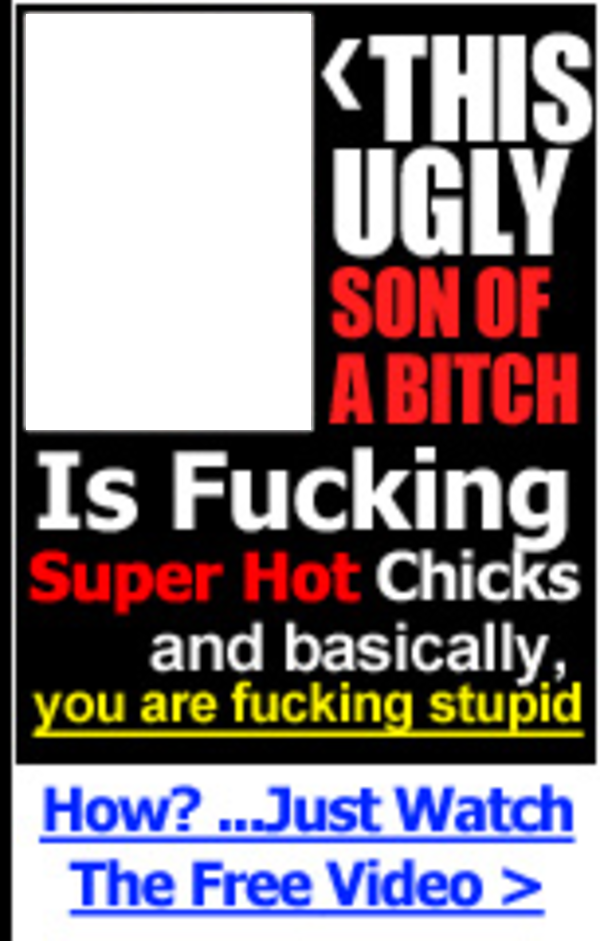
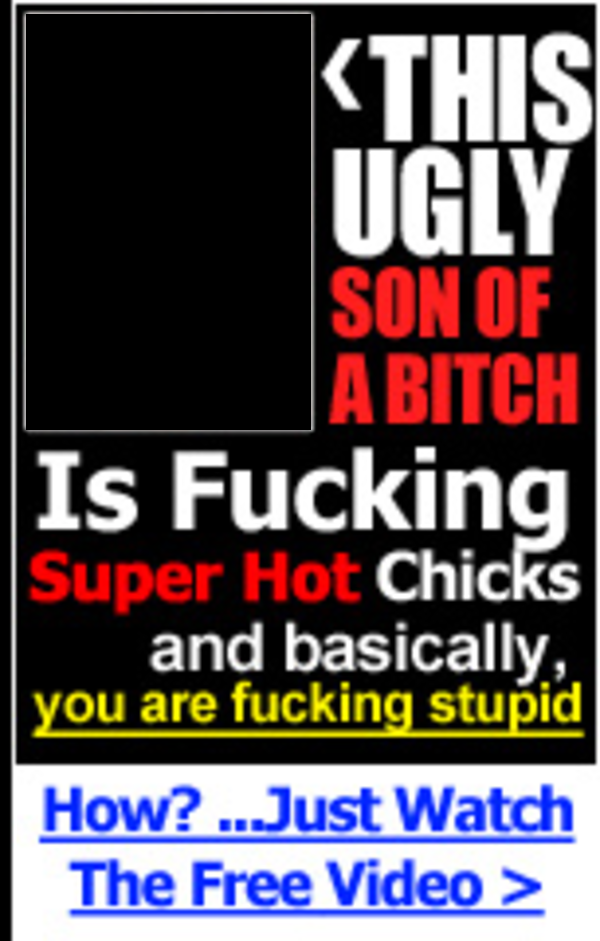
added image commands !

Changed region(s): [[0.03, 0.0, 0.54, 0.4623]]

diff --git a/commands/image-commands.js b/commands/image-commands.js
@@ -8,35 +8,118 @@ module.exports.qrcode = function (client, message, msg, args) {
         message.channel.send("", new Discord.Attachment(qr.image(msg.substring(7), { type: 'png' })));
     }
     else {
-        message.channel.send(":no_entry: `Tell me what to turn into a qr code`");
+        message.channel.send(":no_entry: `Tell me what to turn into a qr code");
     }
 }
 
 module.exports.hsgtf = function (client, message, msg, args) {
-    var imglink;
-    if (args.length > 1) {
-        imglink = msg.substring(6);
-    }
-    else {
-        imglink = "";
-    }
-    if (imglink) {
-        Jimp.read(imglink).then(function (image) {
-            Jimp.read("resources/images/hsgtf.png", function (err, background) {
-                if (err) throw err;
-                image.contain(600, 391, Jimp.RESIZE_BICUBIC, function (err, src) {
-                    background.composite(src, 0, 96)
-                        .getBuffer(Jimp.MIME_PNG, (err, buffer) => {
-                            message.channel.send(new Discord.Attachment(buffer));
-                        });
+    getLastImage(message, args, 6, (imglink) => {
+        if (imglink) {
+            Jimp.read(imglink).then(function (image) {
+                Jimp.read("resources/images/hsgtf.png", function (err, background) {
+                    if (err) throw err;
+                    image.contain(600, 392, Jimp.RESIZE_BICUBIC, function (err, src) {
+                        background.composite(src, 0, 96)
+                            .getBuffer(Jimp.MIME_PNG, (err, buffer) => {
+                                message.channel.send(new Discord.Attachment(buffer));
+                            });
+                    });
                 });
+            }).catch(function (err) {
+                message.channel.send(":no_entry: `No valid image provided`");
             });
-        }).catch(function (err) {
-            message.channel.send(":no_entry: `No valid image provided`");
-        });
-    }
+        }
+        else {
+            message.channel.send(":no_entry: `No image found`");
+        }
+    });
 }
 
-function getLastImage(message) {
+module.exports.wth = function (client, message, msg, args) {
+    getLastImage(message, args, 6, (imglink) => {
+        if (imglink) {
+            Jimp.read(imglink).then(function (image) {
+                Jimp.read("resources/images/wth.png", function (err, background) {
+                    if (err) throw err;
+                    image.contain(158, 177, Jimp.RESIZE_BICUBIC, function (err, src) {
+                        background.composite(src, 42, 29)
+                            .getBuffer(Jimp.MIME_PNG, (err, buffer) => {
+                                message.channel.send(new Discord.Attachment(buffer));
+                            });
+                    });
+                });
+            }).catch(function (err) {
+                message.channel.send(":no_entry: `No valid image provided`");
+            });
+        }
+        else {
+            message.channel.send(":no_entry: `No image found`");
+        }
+    });
+}
 
+module.exports.usoab = function (client, message, msg, args) {
+    getLastImage(message, args, 6, (imglink) => {
+        if (imglink) {
+            Jimp.read(imglink).then(function (image) {
+                Jimp.read("resources/images/usoab.png", function (err, background) {
+                    if (err) throw err;
+                    image.contain(285, 416, Jimp.RESIZE_BICUBIC, function (err, src) {
+                        background.composite(src, 26, 14)
+                            .getBuffer(Jimp.MIME_PNG, (err, buffer) => {
+                                message.channel.send(new Discord.Attachment(buffer));
+                            });
+                    });
+                });
+            }).catch(function (err) {
+                message.channel.send(":no_entry: `No valid image provided`");
+            });
+        }
+        else {
+            message.channel.send(":no_entry: `No image found`");
+        }
+    });
+}
+
+module.exports.suicide = function (client, message, msg, args) {
+    message.channel.send(new Discord.Attachment("resources/images/nooseguy.png"));
+}
+
+module.exports.wtf = function (client, message, msg, args) {
+    message.channel.send(new Discord.Attachment("resources/images/wtf.png"));
+}
+
+function getLastImage(message, args, substr, cb) {
+    if (args.length > 1) {
+        cb(msg.substring(substr));
+    }
+    else {
+        message.channel.fetchMessages({ limit: 50 })
+            .then((_messages) => {
+                var messages = _messages.array();
+                for (var i = 0; i < messages.length; i++) {
+                    if (messages[i].attachments) {
+                        if (messages[i].embeds) {
+                            for (var j = 0; j < messages[i].embeds.length; j++) {
+                                if (messages[i].embeds[j].url.indexOf('.png') !== -1 ||
+                                    messages[i].embeds[j].url.indexOf('.jpg') !== -1 ||
+                                    messages[i].embeds[j].url.indexOf('.bmp') !== -1) {
+                                    cb(messages[i].embeds[j].url);
+                                    return;
+                                }
+                            }
+                        }
+                        var attachments = messages[i].attachments.array();
+                        for (var j = 0; j < attachments.length; j++) {
+                            if (attachments[j].width) {
+                                cb(attachments[j].url);
+                                return;
+                            }
+                        }
+                    }
+                }
+                cb(undefined);
+            })
+            .catch(console.error);
+    }
 }

diff --git a/commands/admin-commands.js b/commands/admin-commands.js
@@ -60,28 +60,29 @@ module.exports.userinfo = function (client, message, msg, args) {
         embed.setColor("BLUE");
         embed.setThumbnail(user.avatarURL);
         embed.setAuthor(`${user.username}#${user.discriminator}`, user.avatarURL, user.avatarURL);
-        embed.addField("Joined:", member.joinedAt.toGMTString());
-        embed.addField("Created:", user.createdAt.toGMTString());
+        embed.addField("ID", member.id);
+        embed.addField("Joined", member.joinedAt.toGMTString());
+        embed.addField("Created", user.createdAt.toGMTString());
         var nick = member.nickname;
         if (!nick) {
             nick = "__*none*__";
         }
-        embed.addField("Nickname:", nick)
+        embed.addField("Nickname", nick)
         var game = user.presence.game;
         if (!game) {
             game = "__*none*__";
         }
-        embed.addField("Playing:", game.name);;
+        embed.addField("Playing", game.name);;
         var roles = ""
         member.roles.array().forEach((e) => {
             roles += `\`${e.name}\`, `;
         });
         roles = roles.substring(0, roles.length - 2);
-        embed.addField("Roles:", roles);
+        embed.addField("Roles", roles);
         embed.setFooter(`Status: ${user.presence.status}`);
         message.channel.send(embed);
     }
     else {
-        message.channel.send(":no_entry: `Tell which user to get the avatar from...`");
+        message.channel.send(":no_entry: `No user mentioned...`");
     }
 }

diff --git a/command-manager.js b/command-manager.js
@@ -121,7 +121,11 @@ module.exports.loadCommands = function () {
 
     // Images commands
     registerCommand("QRCODE", "QR", "qr [text]", "Create a qr code that contains a certain text", false, ImageCommands.qrcode);
-    registerCommand("HSGTF", undefined, "HSGTF [image]", "Make a 'Has science gone too far' meme", false, ImageCommands.hsgtf);
+    registerCommand("HSGTF", undefined, "hsgtf [image]", "Make a 'Has science gone too far' meme", false, ImageCommands.hsgtf);
+    registerCommand("WTH", undefined, "wth [image]", "Make a 'Worse than hitler' meme", false, ImageCommands.wth);
+    registerCommand("USOAB", undefined, "usoab [image]", "Make a 'Ugly son of a bitch' meme", false, ImageCommands.usoab);
+    registerCommand("SUICIDE", undefined, "suicide", "Send a picture of Noose Guy", false, ImageCommands.suicide);
+    registerCommand("WTF", undefined, "wtf", "Send a picture of Jacky Chan asking himself wtf just happend...", false, ImageCommands.wtf);
 
     // Search Commands
     registerCommand("URBAN", "URB", "urban [word]", "Search a word on urban dictionaries (use '-r-' for random word)", false, SearchCommands.urban);

diff --git a/index.js b/index.js
@@ -134,14 +134,18 @@ function main() {
             if (command) {
                 if (CommandManager.getAdminOnly(args[0].toUpperCase())) {
                     if (PermUtils.isAdmin(message.member)) {
+                        message.channel.startTyping();
                         command(client, message, msg, args);
+                        message.channel.stopTyping();
                     }
                     else {
                         message.channel.send(":no_entry: `Sorry, but your KD is too low to issue this command`");
                     }
                 }
                 else {
+                    message.channel.startTyping();
                     command(client, message, msg, args);
+                    message.channel.stopTyping();
                 }
             }
             else {

diff --git a/commands/misc-commands.js b/commands/misc-commands.js
@@ -283,3 +283,8 @@ module.exports.why = function (client, message, msg, args) {
     whyresponses = fs.readFileSync("resources/lists/why-responses.txt").toString().replace(/\r/g, "").split("\n");
     message.channel.send(`\`\`\`${whyresponses[Utils.getRandomInt(whyresponses.length - 1)]}\`\`\``);
 }
+
+module.exports.someone = function (client, message, msg, args) {
+    var members = message.guild.members.array();
+    message.channel.send("");
+}
